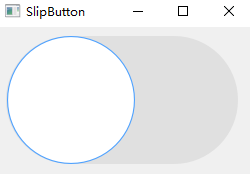
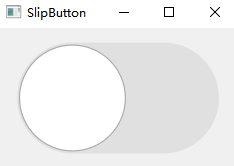
修改slipbuttton

diff --git a/SlipButton/slipbutton.cpp b/SlipButton/slipbutton.cpp
@@ -5,8 +5,8 @@
 
 struct SlipButtonPrivate{
     int offset = 0;
-    QColor uncheckBackgroundColor = QColor("#FFE0E0E0");
-    QColor checkedBackgroundColor = QColor("#4da1ff");
+    QColor uncheckBackgroundColor = QColor(QLatin1String("#FFE0E0E0"));
+    QColor checkedBackgroundColor = QColor(QLatin1String("#4da1ff"));
     bool hover = false;
     QPropertyAnimation *animation;
 };
@@ -27,12 +27,12 @@ SlipButton::~SlipButton()
 
 QSize SlipButton::sizeHint() const
 {
-    return QSize(100 * 1.8, 100);
+    return QSize(20, 20);
 }
 
 QSize SlipButton::minimumSizeHint() const
 {
-    return QSize(10 * 1.8, 10);
+    return QSize(20, 20);
 }
 
 void SlipButton::setCheckedBackgroundColor(const QColor& color)
@@ -103,12 +103,14 @@ void SlipButton::paintEvent(QPaintEvent* event)
     }
 
     QRectF rectThumb = QRectF(offset(), (height() - h) / 2, h, h);
-    QColor colorThumbBorder = (d->hover) ? d->checkedBackgroundColor: QColor("#FFA8A8A8");
+    rectThumb.adjust(2, 2, -2, -2);
+    QColor colorThumbBorder = (d->hover) ? d->checkedBackgroundColor
+                                         : QColor(QLatin1String("#FFA8A8A8"));
     painter.setBrush(colorThumbBorder);
     painter.drawEllipse(rectThumb);
 
     // 按钮圆点
-    QColor colorThumb = isEnabled() ? QColor(Qt::white) : QColor("#FFE0E0E0");
+    QColor colorThumb = isEnabled() ? QColor(Qt::white) : QColor(QLatin1String("#FFE0E0E0"));
     painter.setBrush(colorThumb);
     rectThumb.adjust(1.1, 1.1, -1.1, -1.1);
     painter.drawEllipse(rectThumb);
